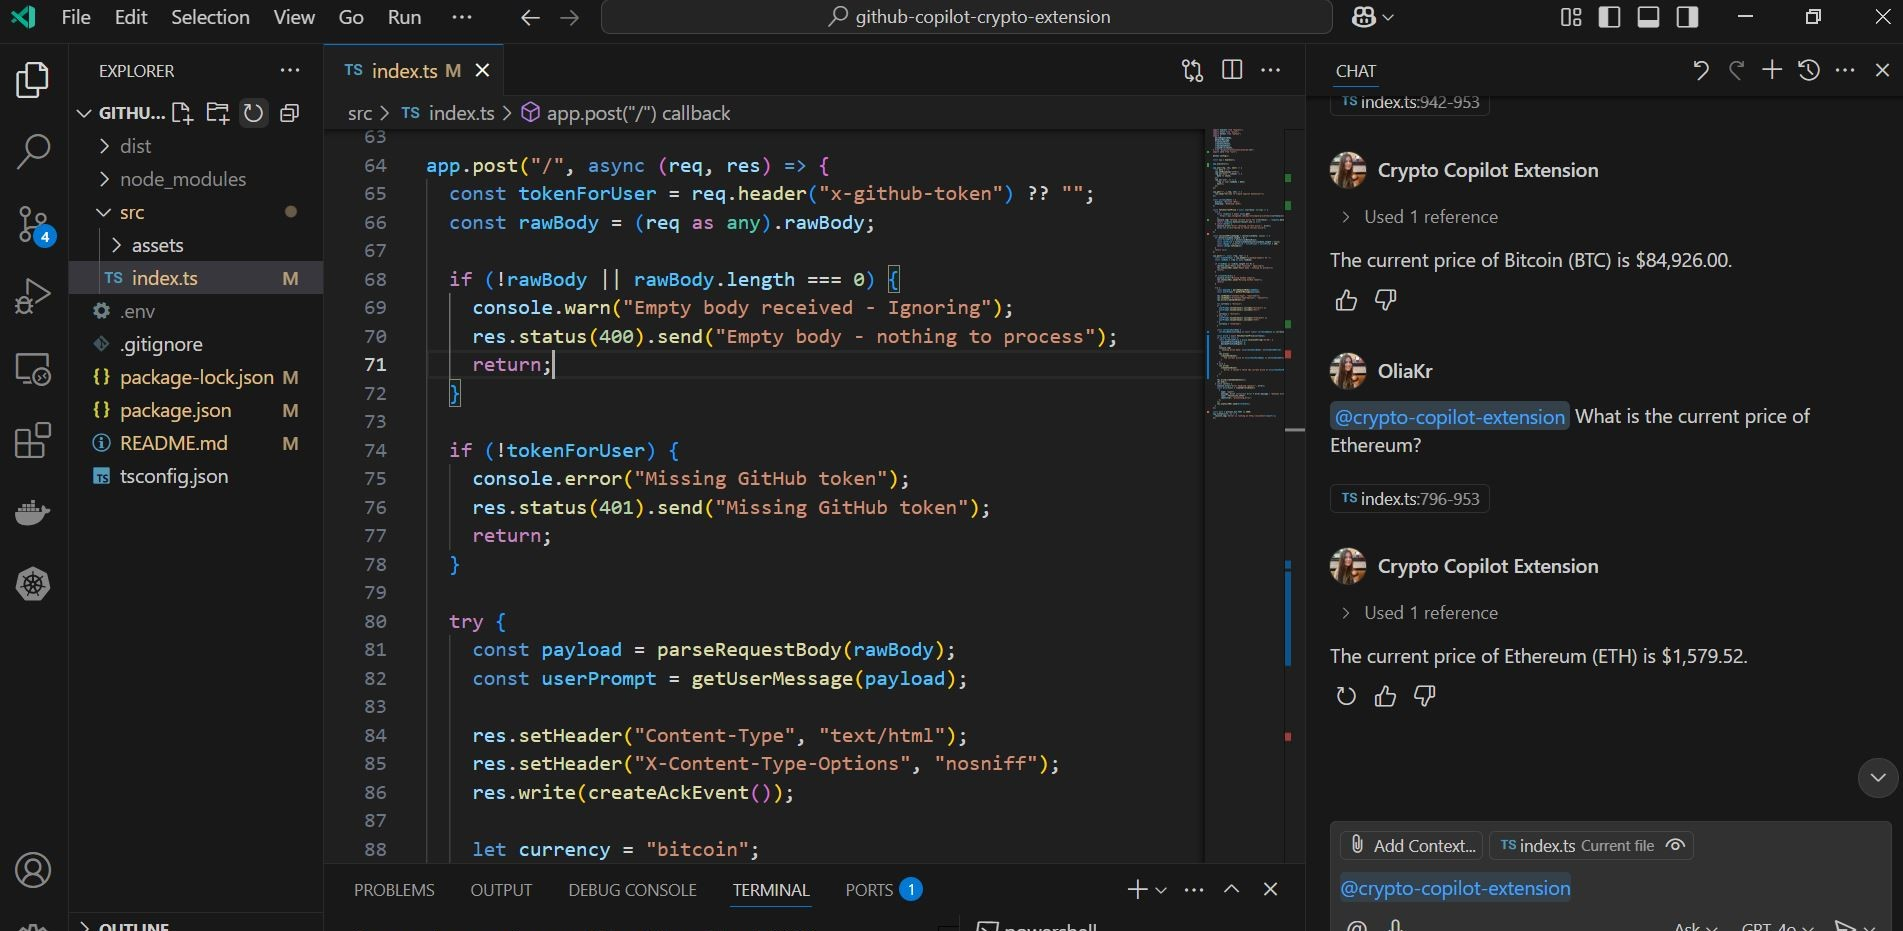
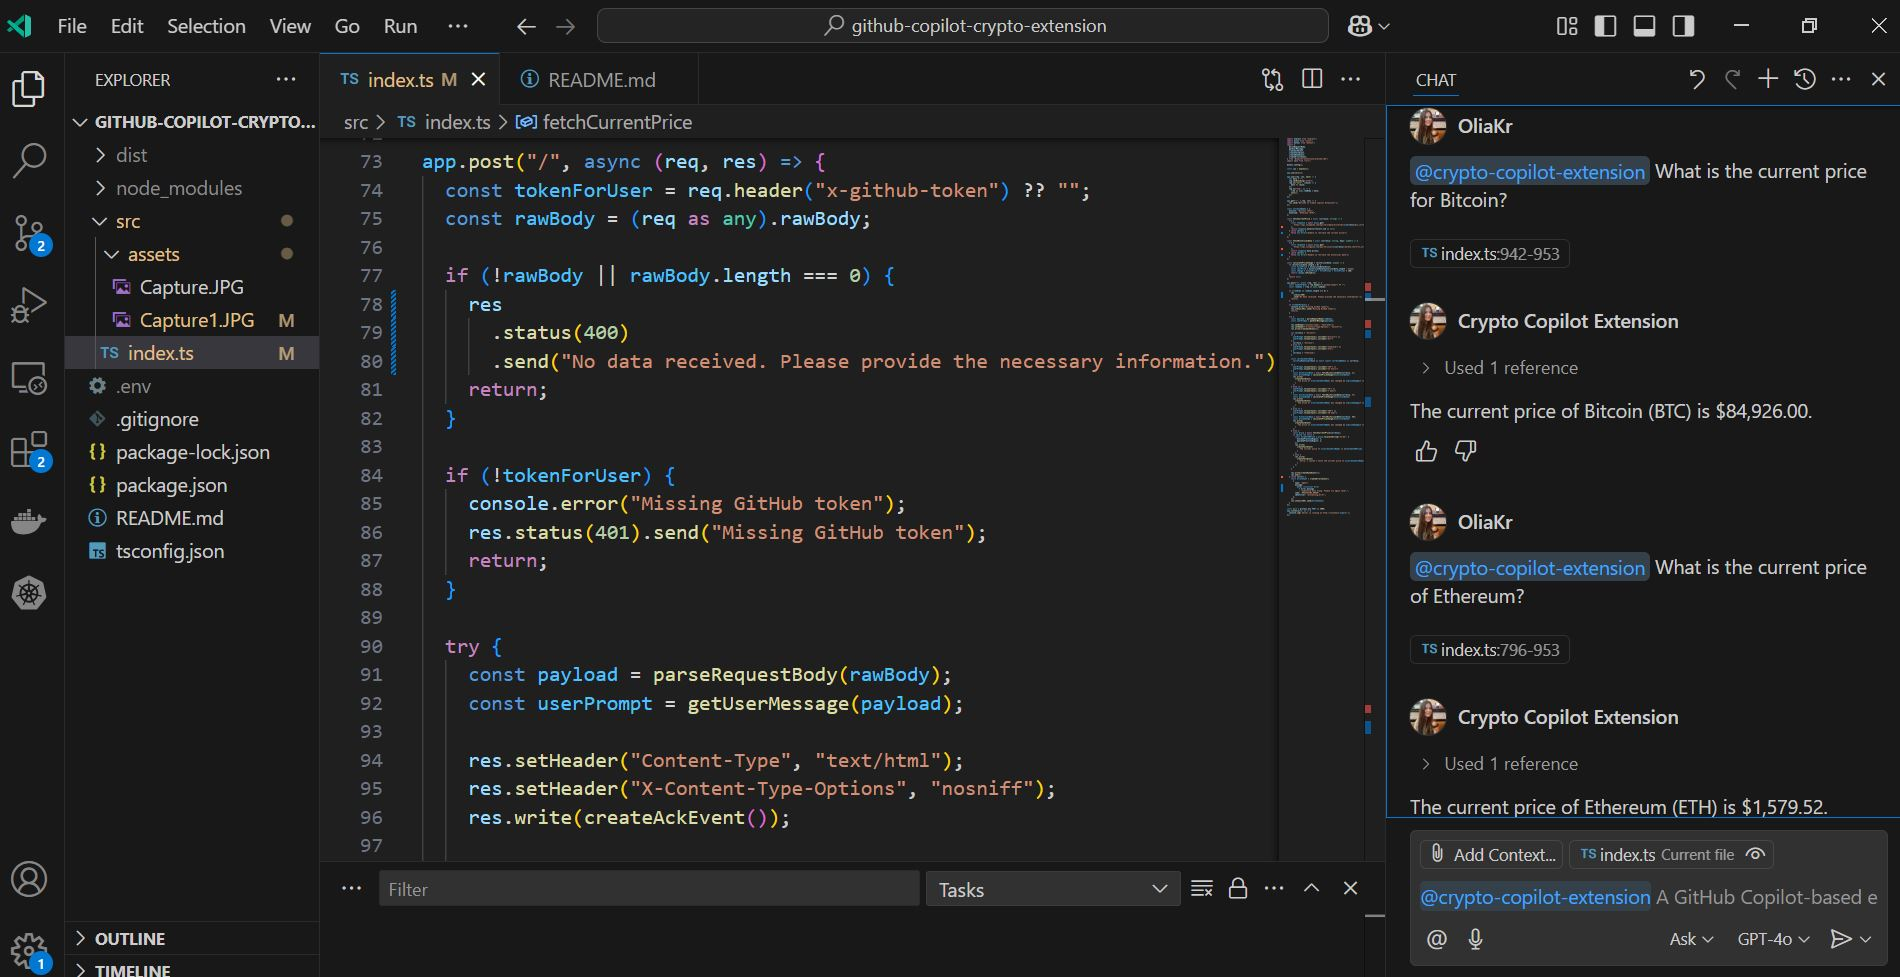
Code cleaning and adding screenshots for README

diff --git a/src/index.ts b/src/index.ts
@@ -43,11 +43,9 @@ const fetchCurrentPrice = async (currency: string) => {
     const response = await axios.get(
       `https://api.coingecko.com/api/v3/simple/price?ids=${currency}&vs_currencies=usd`
     );
-    console.log(`Fetched current price for ${currency}:`, response.data);
     return response.data[currency]?.usd || null;
   } catch (error) {
-    console.error("Error fetching current price:", error);
-    throw new Error("Failed to fetch current price");
+    throw new Error("Unable to retrieve the current price");
   }
 };
 
@@ -56,11 +54,9 @@ const fetchHistoricalData = async (currency: string, days: number) => {
     const response = await axios.get(
       `https://api.coingecko.com/api/v3/coins/${currency}/market_chart?vs_currency=usd&days=${days}`
     );
-    console.log(`Fetched historical data for ${currency}:`, response.data);
     return response.data.prices;
   } catch (error) {
-    console.error("Error fetching historical data:", error);
-    throw new Error("Failed to fetch historical data");
+    throw new Error("Unable to retrieve the historical data");
   }
 };
 
@@ -79,8 +75,9 @@ app.post("/", async (req, res) => {
   const rawBody = (req as any).rawBody;
 
   if (!rawBody || rawBody.length === 0) {
-    console.warn("Empty body received - Ignoring");
-    res.status(400).send("Empty body - nothing to process");
+    res
+      .status(400)
+      .send("No data received. Please provide the necessary information.");
     return;
   }
 
@@ -171,11 +168,13 @@ app.post("/", async (req, res) => {
     res.write(createDoneEvent());
     res.end();
   } catch (error) {
-    console.error("Error handling request:", error);
     const errorEvent = createErrorsEvent([
       {
         type: "agent",
-        message: error instanceof Error ? error.message : "Unknown error",
+        message:
+          error instanceof Error
+            ? error.message
+            : "Something went wrong. Please try again later.",
         code: "PROCESSING_ERROR",
         identifier: "processing_error",
       },
